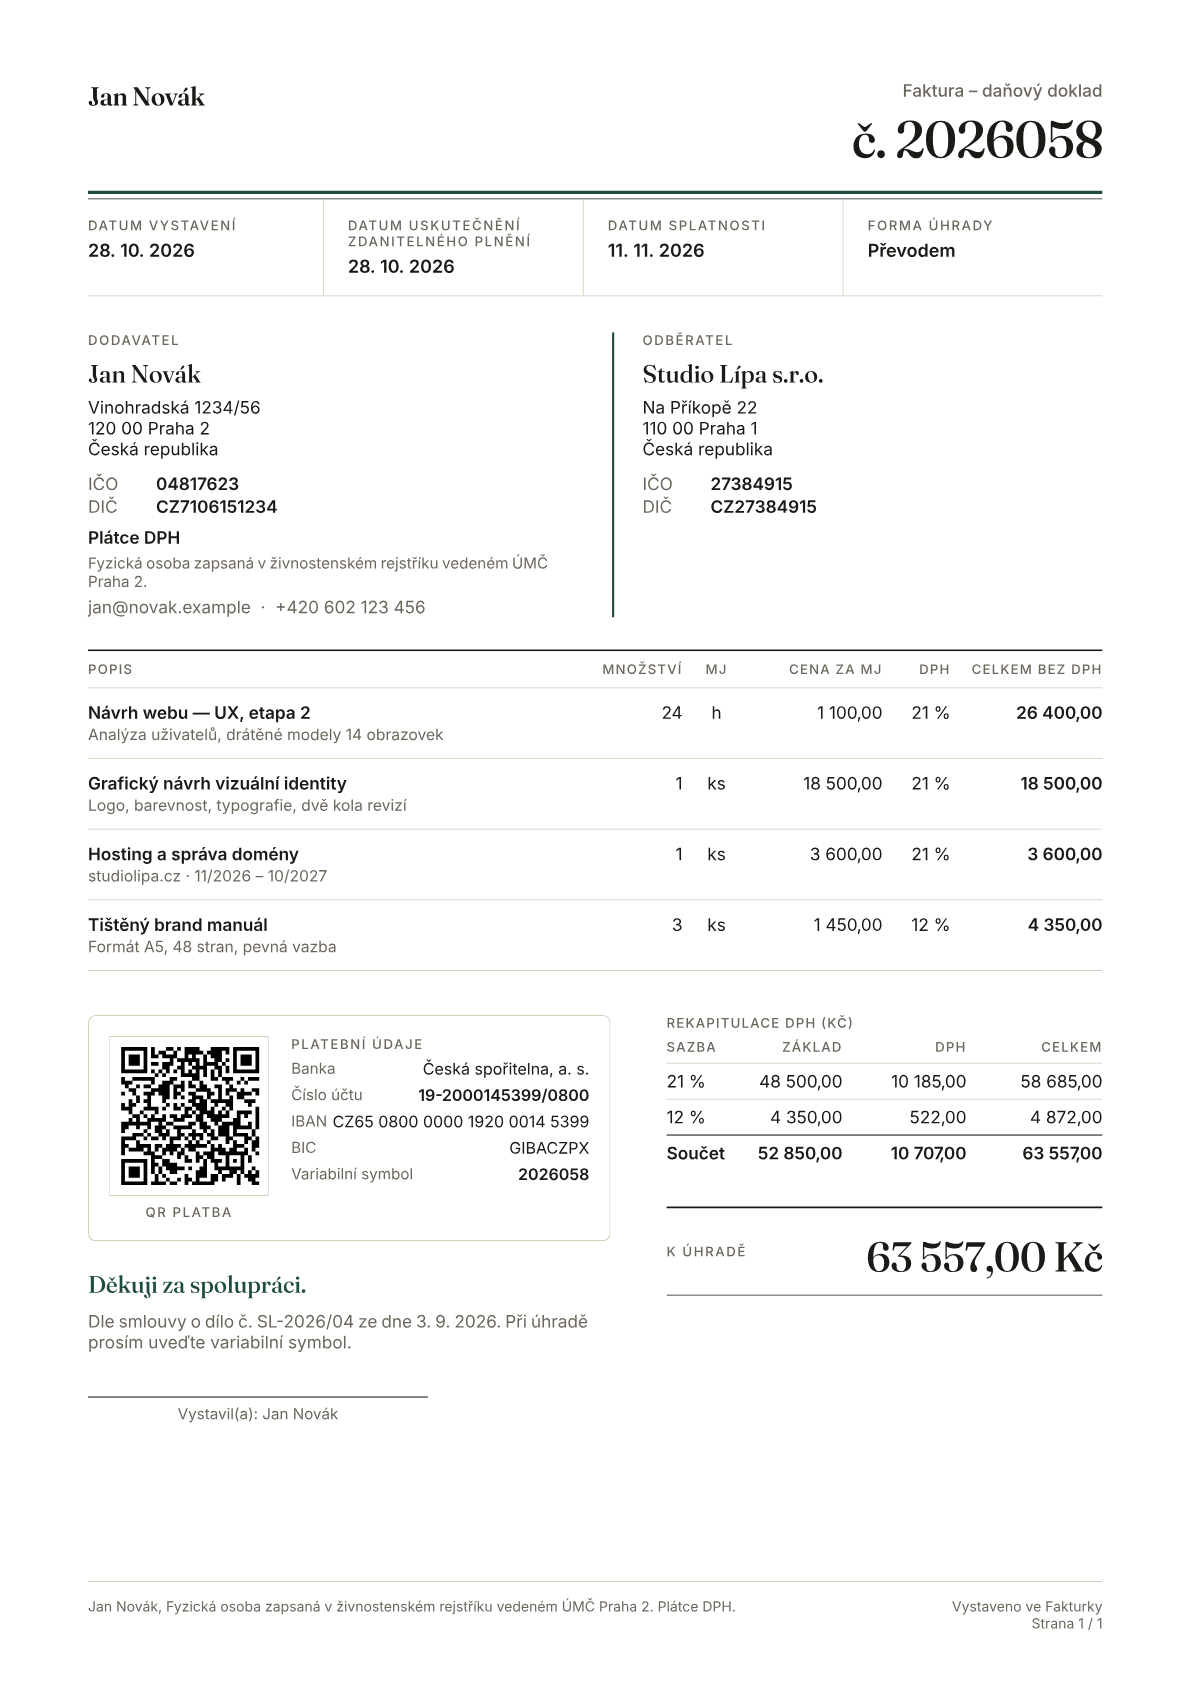
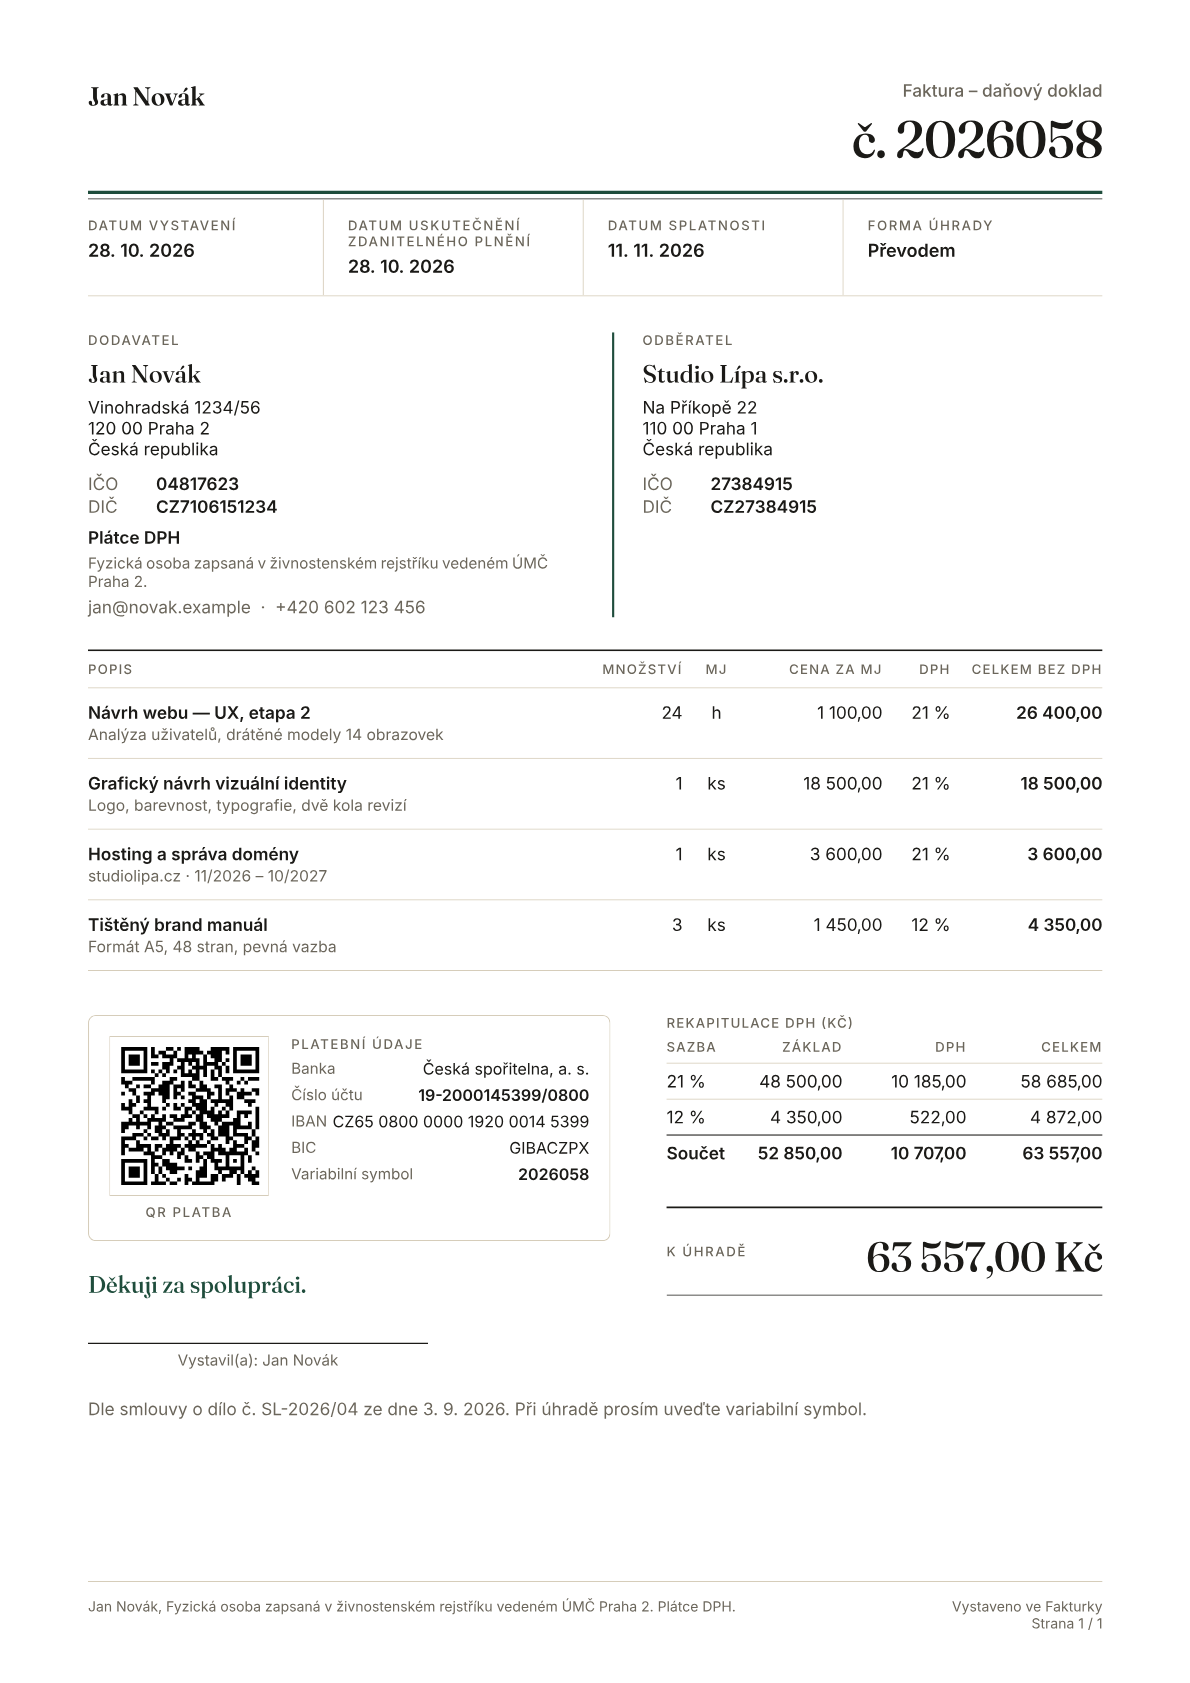
fix(pdf): exchange-rate fallback from totals, wrap long notes

diff --git a/packages/pdf/src/InvoiceDocument.tsx b/packages/pdf/src/InvoiceDocument.tsx
@@ -268,7 +268,7 @@ export function InvoiceDocument({ doc, qr }: InvoiceDocumentProps): ReactElement
   const showVatCols = payer
   const showRecap = payer && !isProforma && doc.totals.recap.length > 0
   const foreign = cur !== 'CZK'
-  const rate = parseDecimal(doc.exchangeRate ?? 1)
+  const rate = parseDecimal(doc.exchangeRate ?? doc.totals.exchangeRate)
   const title = titleFor(doc, t)
   const pay = doc.payment
   const acct = pay?.bankAccount
@@ -484,9 +484,6 @@ export function InvoiceDocument({ doc, qr }: InvoiceDocumentProps): ReactElement
                 {doc.footerText}
               </Text>
             ) : null}
-            {doc.note ? (
-              <Text style={[s.muted, { marginTop: 6, maxWidth: 250 }]}>{doc.note}</Text>
-            ) : null}
             {isProforma ? <Text style={[s.bold, { marginTop: 8 }]}>{t.notTaxDocument}</Text> : null}
 
             {doc.signature || doc.issuedBy ? (
@@ -599,6 +596,12 @@ export function InvoiceDocument({ doc, qr }: InvoiceDocumentProps): ReactElement
             </View>
           </View>
         </View>
+
+        {doc.note ? (
+          <View style={{ marginTop: 14 }}>
+            <Text style={s.muted}>{doc.note}</Text>
+          </View>
+        ) : null}
 
         {legalTexts.length > 0 ? (
           <View style={s.legal} wrap={false}>
